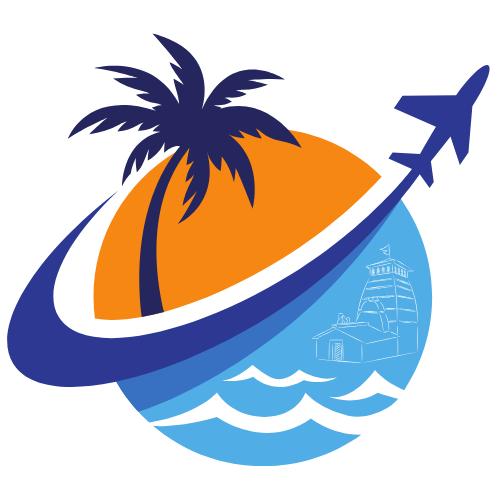
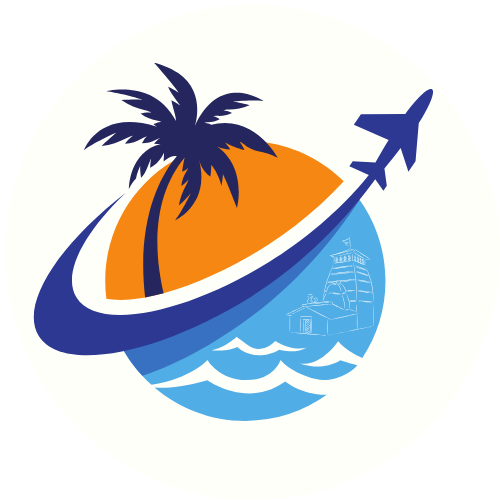
update all files

diff --git a/index.html b/index.html
@@ -1,7 +1,7 @@
 <!DOCTYPE html>
 <html lang="en">
 <head>
-<link rel="icon" type="image/png" sizes="32x32" href="favicon.png">
+<link rel="icon" type="image/png" href="images/Logo_hor.png">
 <meta charset="UTF-8" />
 <meta name="viewport" content="width=device-width, initial-scale=1.0" />
 <title>Viharasetu — Sacred Journeys, Timeless Paths</title>

diff --git a/destinations/All_packages/All_packages.html b/destinations/All_packages/All_packages.html
@@ -6,6 +6,7 @@
 <title>Incredible India — Top Destinations</title>
 <link rel="preconnect" href="https://fonts.googleapis.com">
 <link href="https://fonts.googleapis.com/css2?family=Playfair+Display:wght@600;700;800&family=Inter:wght@400;500;600&display=swap" rel="stylesheet">
+<link rel="icon" href="../../images/Logo_hor.png" type="image/png">
 <style>
   :root{
     --bg: #F4F1EA;

diff --git a/destinations/All_packages/Explore_Destination.html b/destinations/All_packages/Explore_Destination.html
@@ -6,6 +6,7 @@
 <title>Explore India — By Season &amp; State</title>
 <link rel="preconnect" href="https://fonts.googleapis.com">
 <link href="https://fonts.googleapis.com/css2?family=Playfair+Display:wght@600;700;800&family=Inter:wght@400;500;600&display=swap" rel="stylesheet">
+<link rel="icon" href="../../images/Logo_hor.png" type="image/png">
 <style>
   :root{
     --bg: #F4F1EA;

diff --git a/destinations/All_packages/UTTARAKHAND/kedarnath-badrinath.html b/destinations/All_packages/UTTARAKHAND/kedarnath-badrinath.html
@@ -6,6 +6,7 @@
 <title>Kedarnath &amp; Badrinath — Destinations</title>
 <link rel="preconnect" href="https://fonts.googleapis.com">
 <link href="https://fonts.googleapis.com/css2?family=Playfair+Display:wght@600;700;800&family=Inter:wght@400;500;600&display=swap" rel="stylesheet">
+<link rel="icon" href="../../../images/Logo_hor.png" type="image/png">
 <style>
   :root{
     --bg: #F4F1EA;

diff --git a/destinations/All_packages/UTTARAKHAND/rishikesh-haridwar.html b/destinations/All_packages/UTTARAKHAND/rishikesh-haridwar.html
@@ -6,6 +6,7 @@
 <title>Rishikesh &amp; Haridwar — Destinations</title>
 <link rel="preconnect" href="https://fonts.googleapis.com">
 <link href="https://fonts.googleapis.com/css2?family=Playfair+Display:wght@600;700;800&family=Inter:wght@400;500;600&display=swap" rel="stylesheet">
+<link rel="icon" href="../../../images/Logo_hor.png" type="image/png">
 <style>
   :root{
     --bg: #F4F1EA;

diff --git a/destinations/All_packages/UTTARAKHAND/tungnath-chandrashila.html b/destinations/All_packages/UTTARAKHAND/tungnath-chandrashila.html
@@ -6,6 +6,7 @@
 <title>Tungnath &amp; Chandrashila — Destinations</title>
 <link rel="preconnect" href="https://fonts.googleapis.com">
 <link href="https://fonts.googleapis.com/css2?family=Playfair+Display:wght@600;700;800&family=Inter:wght@400;500;600&display=swap" rel="stylesheet">
+<link rel="icon" href="../../../images/Logo_hor.png" type="image/png">
 <style>
   :root{
     --bg: #F4F1EA;

diff --git a/destinations/All_packages/UTTARAKHAND/varanasi.html b/destinations/All_packages/UTTARAKHAND/varanasi.html
@@ -7,6 +7,7 @@
 <link rel="preconnect" href="https://fonts.googleapis.com">
 <link href="https://fonts.googleapis.com/css2?family=Playfair+Display:wght@600;700;800&family=Inter:wght@400;500;600&display=swap" rel="stylesheet">
 <link rel="stylesheet" href="../../destinations-common.css">
+<link rel="icon" href="../../../images/Logo_hor.png" type="image/png">
 </head>
 <body>
   <div class="wrap">

diff --git a/destinations/All_packages/alleppey.html b/destinations/All_packages/alleppey.html
@@ -7,6 +7,7 @@
 <link rel="preconnect" href="https://fonts.googleapis.com">
 <link href="https://fonts.googleapis.com/css2?family=Playfair+Display:wght@600;700;800&family=Inter:wght@400;500;600&display=swap" rel="stylesheet">
 <link rel="stylesheet" href="../destinations-common.css">
+<link rel="icon" href="../../images/Logo_hor.png" type="image/png">
 
 </head>
 <body>

diff --git a/destinations/All_packages/chardham.html b/destinations/All_packages/chardham.html
@@ -7,6 +7,7 @@
 <link rel="preconnect" href="https://fonts.googleapis.com">
 <link href="https://fonts.googleapis.com/css2?family=Playfair+Display:wght@600;700;800&family=Inter:wght@400;500;600&display=swap" rel="stylesheet">
 <link rel="stylesheet" href="../destinations-common.css">
+<link rel="icon" href="../../images/Logo_hor.png" type="image/png">
 
 </head>
 <body>

diff --git a/destinations/All_packages/coorg.html b/destinations/All_packages/coorg.html
@@ -7,6 +7,7 @@
 <link rel="preconnect" href="https://fonts.googleapis.com">
 <link href="https://fonts.googleapis.com/css2?family=Playfair+Display:wght@600;700;800&family=Inter:wght@400;500;600&display=swap" rel="stylesheet">
 <link rel="stylesheet" href="../destinations-common.css">
+<link rel="icon" href="../../images/Logo_hor.png" type="image/png">
 
 </head>
 <body>

diff --git a/destinations/All_packages/hampi.html b/destinations/All_packages/hampi.html
@@ -7,6 +7,7 @@
 <link rel="preconnect" href="https://fonts.googleapis.com">
 <link href="https://fonts.googleapis.com/css2?family=Playfair+Display:wght@600;700;800&family=Inter:wght@400;500;600&display=swap" rel="stylesheet">
 <link rel="stylesheet" href="../destinations-common.css">
+<link rel="icon" href="../../images/Logo_hor.png" type="image/png">
 <style>
   /* Hampi highlights side-by-side layout */
   .hampi-highlights {

diff --git a/destinations/All_packages/jammu_kasmir/gulmarg.html b/destinations/All_packages/jammu_kasmir/gulmarg.html
@@ -6,6 +6,7 @@
 <title>Gulmarg — Destinations</title>
 <link rel="preconnect" href="https://fonts.googleapis.com">
 <link href="https://fonts.googleapis.com/css2?family=Playfair+Display:wght@600;700;800&family=Inter:wght@400;500;600&display=swap" rel="stylesheet">
+<link rel="icon" href="../../../images/Logo_hor.png" type="image/png">
 <style>
   :root{
     --bg: #F4F1EA;